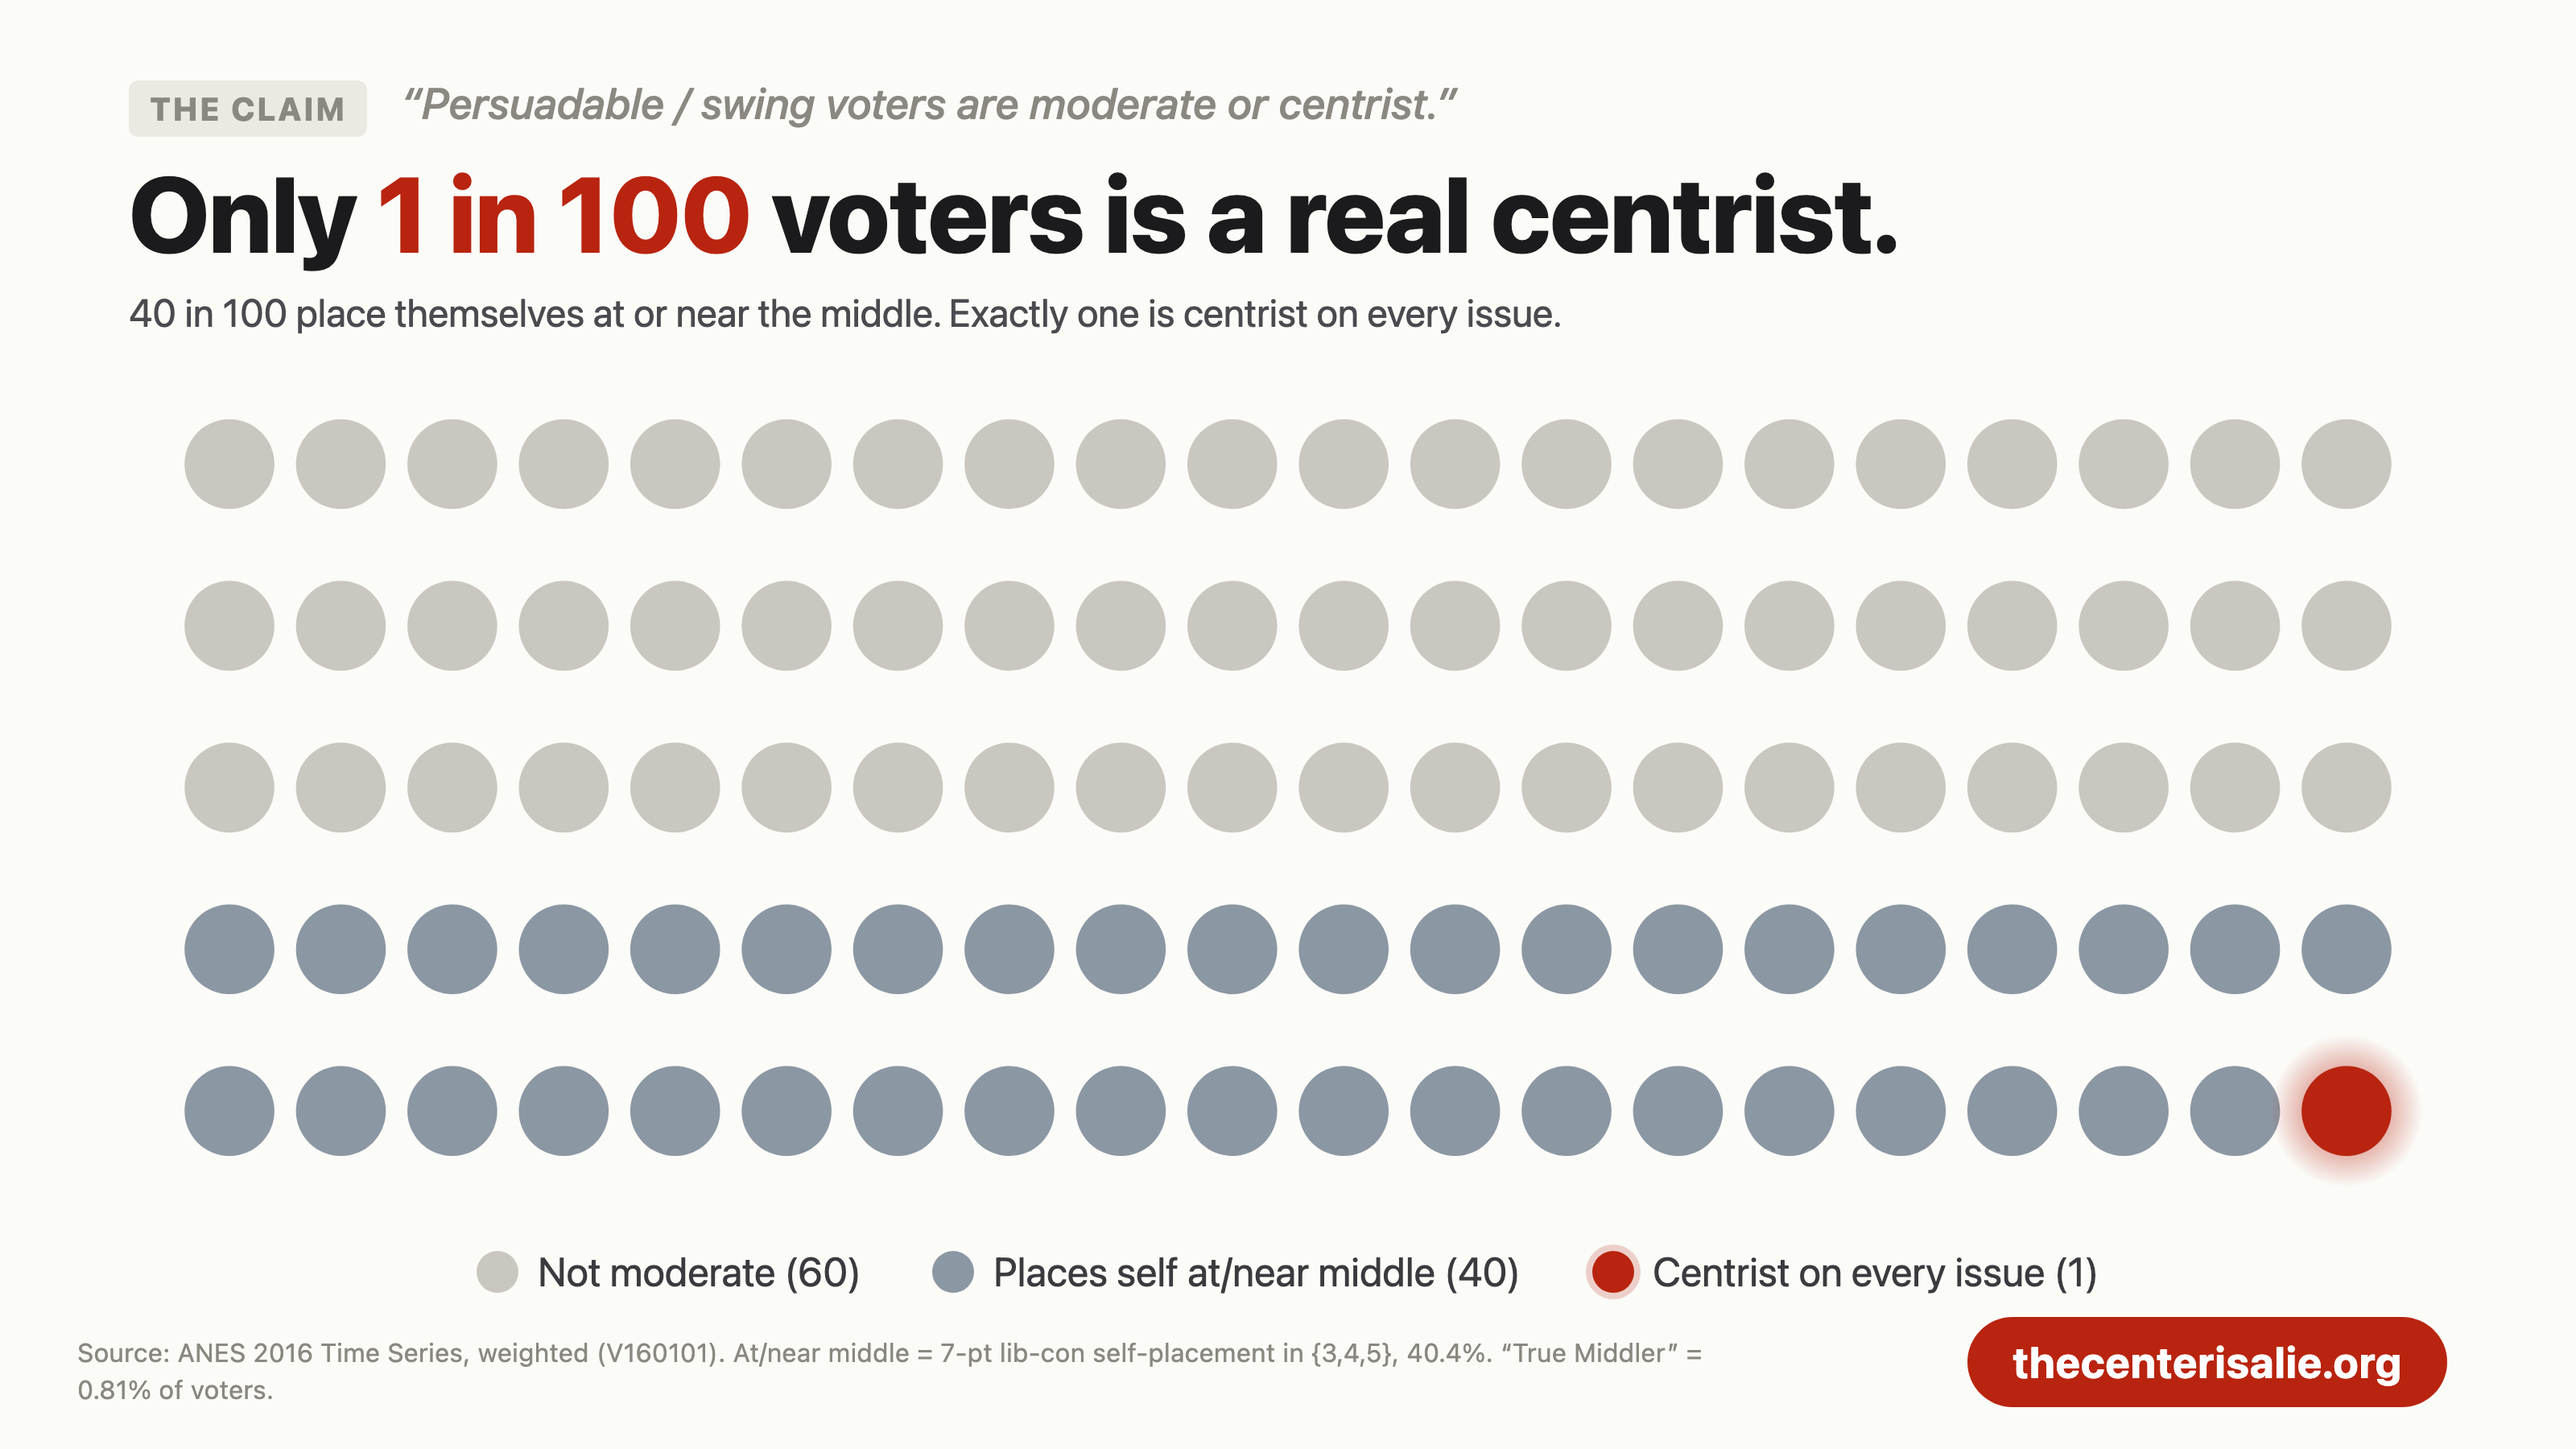
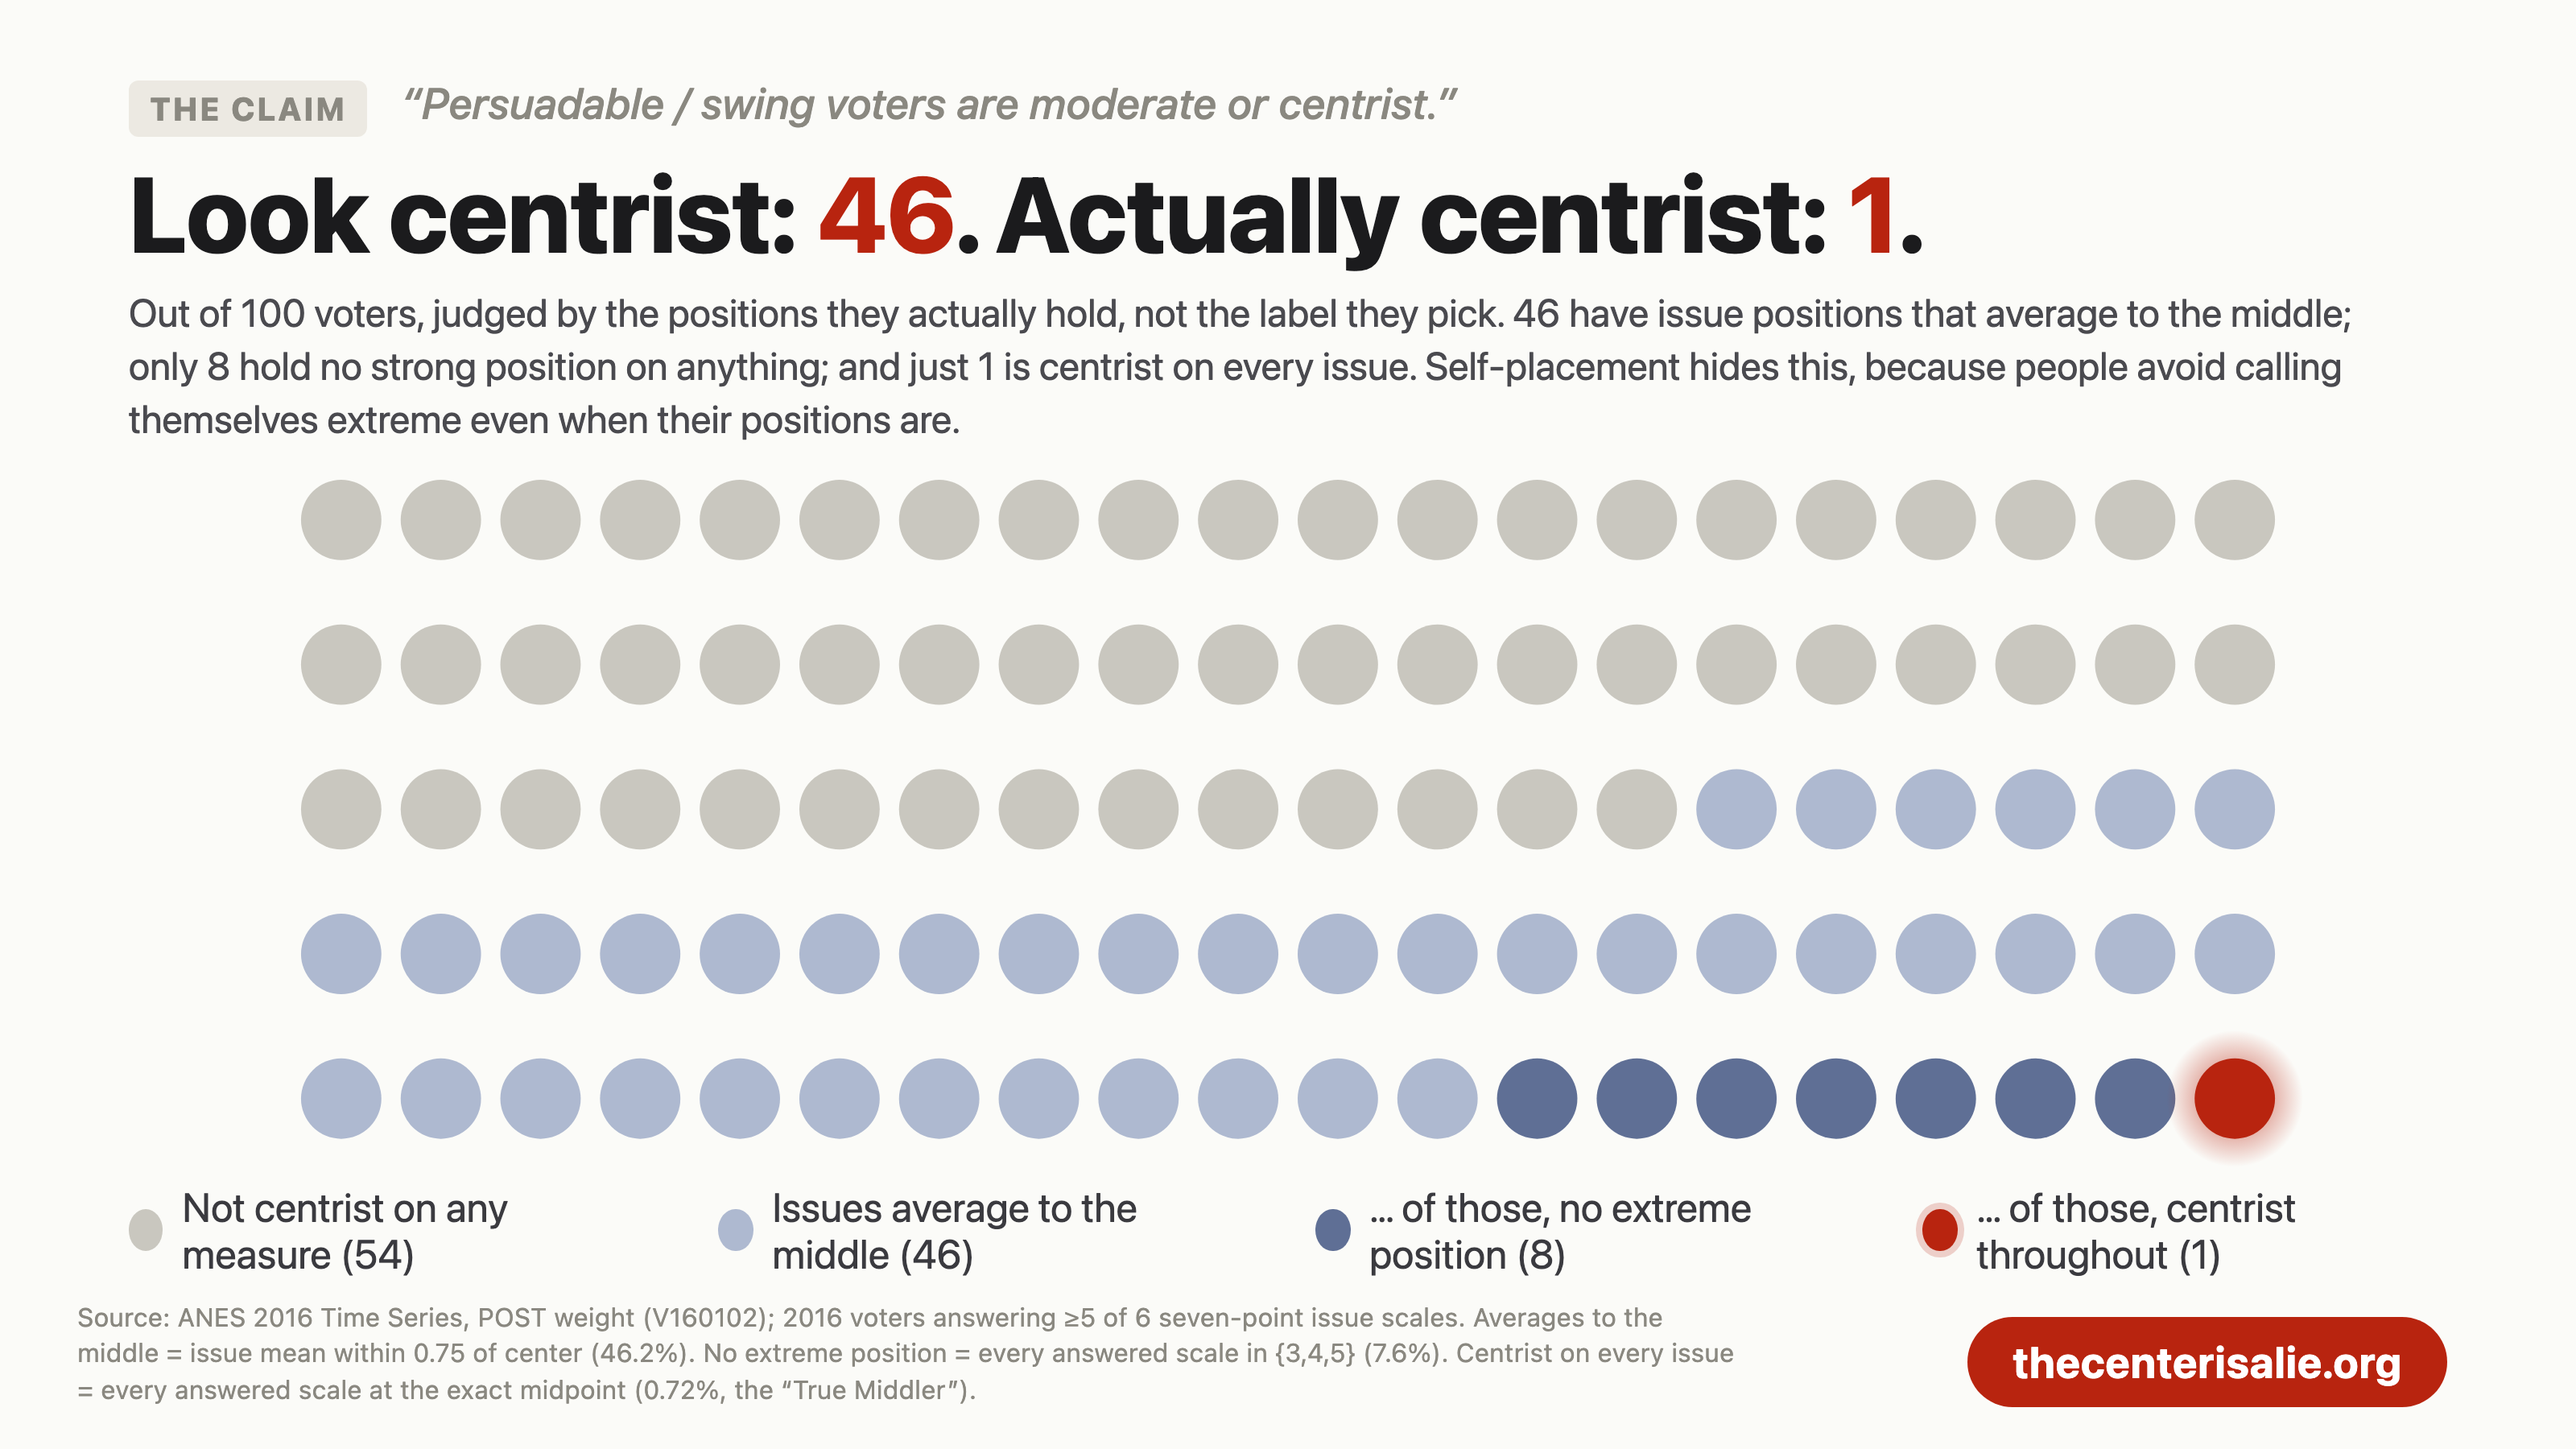
fix(og): rebuild 1in100 on issue positions, not self-placement
Self-placement is the label the deck exists to debunk: people avoid calling
themselves extreme while holding extreme positions. The card now classifies by
the six 7-pt issue scales (2016 voters, POST weight, >=5 of 6 answered):

  46% average to the middle (issue mean within 0.75 of center)
   8% hold no extreme position at all ({3,4,5} on every issue)
   1% (0.72%) are centrist on every issue -- the True Middler

Nested, so the funnel from "looks centrist" to "is centrist" is one contiguous
run of 46 with the 8 and the 1 as subsets at its tail. Headline is now the
contrast the user asked for: look centrist 46, actually centrist 1. The 0.72%
reproduces the essay's 0.81% True Middler on a single clean base, resolving the
base-mismatch the old card carried (it mixed a 40.4% self-placement figure with
a 0.81% issue figure).

Changed region(s): [[0.0312, 0.1244, 0.9375, 0.5911], [0.0312, 0.7156, 0.9375, 0.9644], [0.0625, 0.6222, 0.9375, 0.6844]]

diff --git a/web/og-cards/chart-1in100.html b/web/og-cards/chart-1in100.html
@@ -3,29 +3,32 @@
 <body>
   <div class="chartcard">
     <div class="cc-claim"><span class="tag">The claim</span> &ldquo;Persuadable / swing voters are moderate or centrist.&rdquo;</div>
-    <div class="cc-title">Only <span class="hl">1 in 100</span> voters is a real centrist.</div>
-    <div class="cc-sub">40 in 100 place themselves at or near the middle. Exactly one is centrist on every issue.</div>
+    <div class="cc-title">Look centrist: <span class="hl">46</span>. Actually centrist: <span class="hl">1</span>.</div>
+    <div class="cc-sub">Out of 100 voters, judged by the positions they actually hold, not the label they pick. 46 have issue positions that average to the middle; only 8 hold no strong position on anything; and just 1 is centrist on every issue. Self-placement hides this, because people avoid calling themselves extreme even when their positions are.</div>
 
     <div class="cc-chart"><svg id="waffle" viewBox="0 0 1290 450" role="img"
-      aria-label="Waffle of 100 dots: 60 non-moderate, 39 self-described moderate, 1 true centrist circled"></svg></div>
+      aria-label="Waffle of 100 voters. 46 have issue positions that average to the middle, 8 hold no extreme position at all, 1 is centrist on every issue, and 54 are non-centrist by any measure."></svg></div>
 
     <div class="cc-legend">
-      <div class="item"><span class="dot" style="background:#c9c7bf"></span>Not moderate (60)</div>
-      <div class="item"><span class="dot" style="background:#8b97a3"></span>Places self at/near middle (40)</div>
-      <div class="item"><span class="dot dot--ring" style="background:#b8240f"></span>Centrist on every issue (1)</div>
+      <div class="item"><span class="dot" style="background:#c9c7bf"></span>Not centrist on any measure (54)</div>
+      <div class="item"><span class="dot" style="background:#aeb9d0"></span>Issues average to the middle (46)</div>
+      <div class="item"><span class="dot" style="background:#5f6f95"></span>&hellip; of those, no extreme position (8)</div>
+      <div class="item"><span class="dot dot--ring" style="background:#b8240f"></span>&hellip; of those, centrist throughout (1)</div>
     </div>
 
     <div class="cc-foot">
-      <div class="cc-source">Source: ANES 2016 Time Series, weighted (V160101). At/near middle = 7-pt lib-con self-placement in {3,4,5}, 40.4%. &ldquo;True Middler&rdquo; = 0.81% of voters.</div>
+      <div class="cc-source">Source: ANES 2016 Time Series, POST weight (V160102); 2016 voters answering &ge;5 of 6 seven-point issue scales. Averages to the middle = issue mean within 0.75 of center (46.2%). No extreme position = every answered scale in {3,4,5} (7.6%). Centrist on every issue = every answered scale at the exact midpoint (0.72%, the &ldquo;True Middler&rdquo;).</div>
       <div class="cc-btn">thecenterisalie.org</div>
     </div>
   </div>
 
   <script>
-    // 100 dots, 20 columns x 5 rows, filled row-major.
-    //   0–59  not moderate (light)      rows 1–3
-    //   60–98 self-ID moderate (medium) rows 4–5
-    //   99    True Middler (red, ringed) last dot, bottom-right
+    // 100 dots. Nested categories, filled row-major from the bottom-right so the
+    // rarest sit together: the funnel from "looks centrist" down to "is centrist".
+    //   54 non-centrist (light grey)
+    //   38 average-to-middle only        -> 46 total once the 8 below are added
+    //    7 no extreme position only       ->  8 total once the 1 below is added
+    //    1 centrist on every issue (ringed, the last dot)
     const svg = document.getElementById('waffle');
     const COLS = 20, ROWS = 5, r = 25, sx = 62, sy = 90;
     const x0 = (1290 - (COLS - 1) * sx) / 2, y0 = (450 - (ROWS - 1) * sy) / 2;
@@ -35,13 +38,12 @@
       const cx = x0 + col * sx, cy = y0 + row * sy;
       const c = document.createElementNS(NS, 'circle');
       c.setAttribute('cx', cx); c.setAttribute('cy', cy);
-      let fill = '#c9c7bf';                 // not moderate
-      if (i >= 60) fill = '#8b97a3';        // self-ID moderate
-      if (i === 99) {                        // the one true centrist
+      let fill = '#c9c7bf';                 // non-centrist by any measure (0..53)
+      if (i >= 54) fill = '#aeb9d0';        // issues average to the middle
+      if (i >= 92) fill = '#5f6f95';        // no extreme position at all
+      if (i === 99) {                        // centrist on every issue
         fill = '#b8240f';
         c.setAttribute('r', r);
-        // Soft glow rather than a hard ring: at this spacing a ring collides
-        // with the dot beside it and reads as a rendering bug.
         const defs = document.createElementNS(NS, 'defs');
         defs.innerHTML = '<radialGradient id="glow"><stop offset="45%" stop-color="#b8240f" stop-opacity="0.42"/>'
           + '<stop offset="100%" stop-color="#b8240f" stop-opacity="0"/></radialGradient>';
